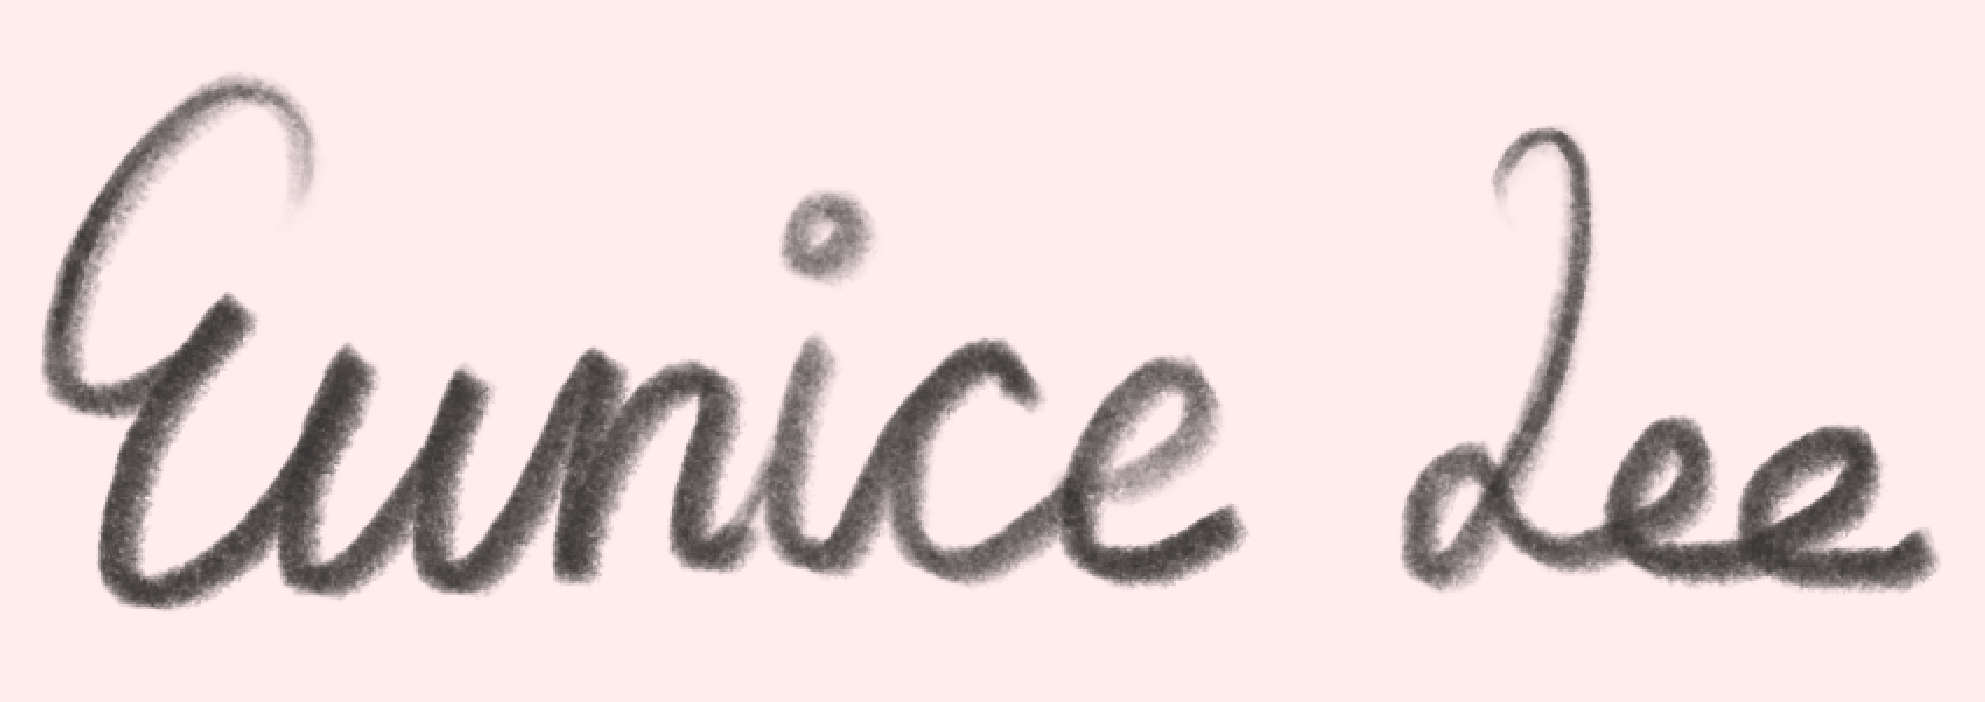
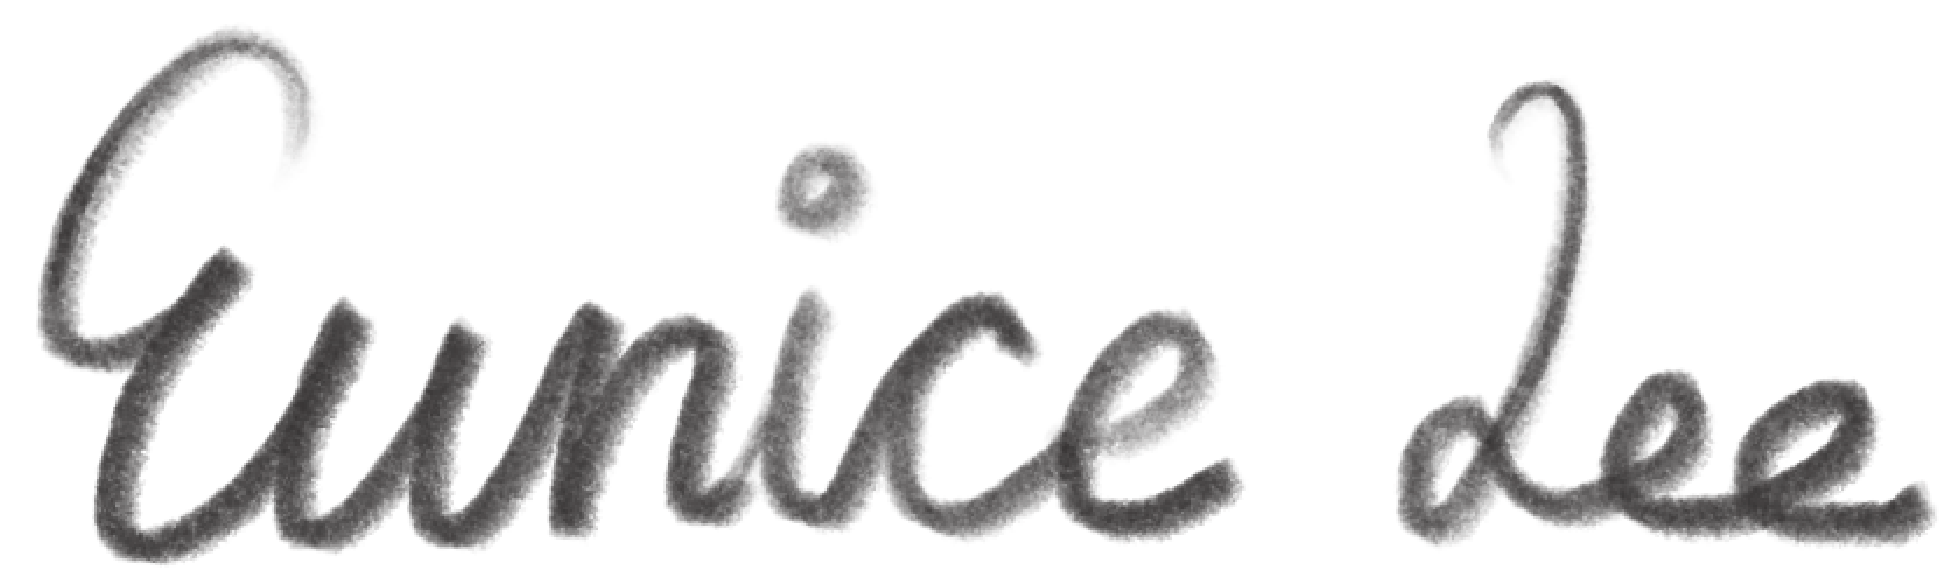
added front page images

diff --git a/src/App.css b/src/App.css
@@ -6,24 +6,29 @@
 .intro-art { max-width: 390px; }
 .intro-image { display: block; width: 100%; height: auto; }
 .intro-copy { max-width: 500px; }
-.intro-design { width: 100%; justify-self: center; }
-.intro-text { width: 100%; max-width: 480px; justify-self: start; text-align: left; }
+.intro-design { position: relative; isolation: isolate; width: 100%; justify-self: center; transform: translateY(-50px); }
+.intro-person { position: absolute; z-index: -1; width: 250px; height: auto; left: 850px; top: -70%; transform: translateY(-30%); }
+.intro-food { position: absolute; z-index: -1; width: 300px; height: auto; left: 22px; top: 78%; }
+.intro-text { width: 100%; max-width: 480px; justify-self: start; text-align: left; transform: translateY(40px); }
 .intro h1 { margin: 0 0 22px; font: 400 clamp(2.75rem, 5vw, 4.5rem)/1 var(--serif); letter-spacing: -.045em; }
 .intro-deck { max-width: 460px; margin: 0 0 28px; font: 1rem/1.55 var(--serif); }
 .intro-midsize {max-width: 460px; margin: 0 0 28px; font: 1.6rem/1.55 var(--serif);}
 .discipline-list { display: flex; flex-wrap: wrap; gap: 7px 18px; margin: 0 0 32px; padding: 18px 0 0; border-top: 1px solid rgba(40, 37, 37, .45); list-style: none; }
 .discipline-list li { font-size: .8rem; }
-.contact-links { width: 100%; display: flex; flex-wrap: wrap; align-items: center; justify-content: center; gap: 0; }
-.contact-item { min-height: 34px; display: inline-flex; flex: 0 0 auto; align-items: center; justify-content: center; color: var(--charcoal); text-decoration: none; transition: opacity .18s ease, transform .18s ease; }
+.contact-links { width: 100%; display: flex; flex-wrap: wrap; align-items: center; justify-content: center; gap: 0; transform: translateX(-30px);}
+.contact-item { min-height: 35px; display: inline-flex; flex: 0 0 auto; align-items: center; justify-content: center; color: var(--charcoal); text-decoration: none; transition: opacity .18s ease, transform .18s ease; }
 .contact-item + .contact-item::before { content: ''; width: 1px; height: 24px; display: inline-block; flex: 0 0 auto; margin: 0 16px; background: currentColor; opacity: .45; }
-.contact-item:hover, .contact-item:focus-visible { opacity: .62; transform: translateY(-1px); }
-.contact-links img { display: block; width: 32px; height: 32px; object-fit: contain; }
+.contact-item:hover, .contact-item:focus-visible { opacity: .62; transform: translateY(-2px); }
+.contact-links img { display: block; width: 45px; height: 45px; object-fit: contain; }
 .contact-icon-fallback { display: grid; place-items: center; width: 32px; height: 32px; font-size: .63rem; font-weight: 700; letter-spacing: .05em; }
 .intro-scroll-cue { position: absolute; bottom: 18px; left: 50%; padding: 8px; color: var(--charcoal); font-size: .9rem; line-height: 1; text-decoration: none; transform: translateX(-50%); transition: transform .2s ease; }
 .intro-scroll-cue:hover, .intro-scroll-cue:focus-visible { opacity: 1; transform: translate(-50%, 3px); }
 
 .selected-work { padding: clamp(72px, 8vw, 88px) 0 clamp(72px, 10vw, 110px); }
 .section-heading { margin: 0; font: 400 clamp(1.75rem, 3vw, 2.5rem)/1.1 var(--serif); letter-spacing: -.025em; }
+.section-title-image { display: block; width: auto; max-width: 100%; height: auto; }
+.section-title-image--featured { width: 380px; }
+.section-title-image--archive { width: 210px; }
 .featured-grid { display: grid; grid-template-columns: repeat(3, minmax(0, 1fr)); gap: clamp(22px, 3vw, 38px); margin-top: 28px; }
 .featured-project { min-width: 0; }
 .project-visual-link { display: block; color: inherit; text-decoration: none; }
@@ -32,14 +37,17 @@
 .project-visual--image img { display: block; width: 100%; height: auto; object-fit: contain; }
 .project-visual--placeholder { display: grid; place-items: center; border: 1px solid rgba(40, 37, 37, .3); color: rgba(40, 37, 37, .65); }
 .project-visual--placeholder span { font-size: .62rem; letter-spacing: .08em; text-transform: uppercase; }
-.featured-project h3 { margin: 15px 0 7px; font: 400 1.2rem/1.2 var(--serif); }
+.featured-project h3 { margin: 15px 0 7px; font: 500 1.4rem/1.2 var(--serif); }
 .featured-project h3 a { text-decoration: none; }
+.featured-subtitle { margin: 15px 0 7px; font: 400 1rem/1.2 var(--sans); }
 .project-description { margin: 0; font-size: .78rem; line-height: 1.5; }
 .tags { display: flex; flex-wrap: wrap; gap: 5px 10px; margin: 12px 0 0; padding: 0; list-style: none; }
-.tags li { color: rgba(40, 37, 37, .72); font-size: .59rem; letter-spacing: .05em; text-transform: uppercase; }
+.tags li { padding: .28rem .52rem; border: 1px solid var(--charcoal); border-radius: 2px; background: var(--cream); color: var(--charcoal); font-size: .72rem; line-height: 1; letter-spacing: .04em; text-transform: uppercase; }
 
 .archive { padding: 0 0 clamp(80px, 11vw, 125px); }
 .archive-heading { display: flex; align-items: center; justify-content: space-between; gap: 28px; margin-bottom: 24px; }
+.archive-heading-copy { display: flex; min-width: 0; flex-direction: column; align-items: flex-start; }
+.archive-subtitle { margin: 8px 0 0; font: 400 1.2rem/1.2 var(--serif); }
 .filter-bar { display: flex; flex-wrap: wrap; justify-content: flex-end; gap: 5px 14px; }
 .filter-bar button { padding: 2px 0; border: 0; border-bottom: 1px solid transparent; background: transparent; font-size: .63rem; letter-spacing: .06em; text-transform: uppercase; cursor: pointer; }
 .filter-bar button:hover, .filter-bar button.is-active { border-bottom-color: var(--charcoal); }
@@ -67,7 +75,10 @@ a:hover { opacity: .62; }
 @media (max-width: 760px) {
   .intro { padding: 52px 0; }
   .intro-inner { grid-template-columns: 1fr; gap: 36px; }
-  .intro-design, .intro-text { justify-self: center; }
+  .intro-design, .intro-text { justify-self: center; transform: none; }
+  .intro-design { padding-top: 120px; }
+  .intro-person { width: 135px; left: clamp(8px, 10vw, 64px); top: 0; transform: none; }
+  .intro-food { width: 76px; left: clamp(130px, 34vw, 210px); top: 62px; }
   .featured-grid { grid-template-columns: repeat(2, minmax(0, 1fr)); }
   .archive-heading { align-items: flex-start; flex-direction: column; }
   .filter-bar { justify-content: flex-start; }
@@ -76,6 +87,9 @@ a:hover { opacity: .62; }
 @media (max-width: 560px) {
   .intro { padding: 44px 0 58px; }
   .intro-inner { grid-template-columns: 1fr; }
+  .intro-design { padding-top: 100px; }
+  .intro-person { width: 112px; }
+  .intro-food { width: 64px; left: clamp(108px, 36vw, 165px); top: 52px; }
   .intro-art { max-width: 280px; }
   .contact-links { gap: 8px 18px; }
   .contact-item + .contact-item::before { display: none; }

diff --git a/src/components/IntroSection.jsx b/src/components/IntroSection.jsx
@@ -1,38 +1,34 @@
 import namePic from "../assets/name.png"
+import mailIcon from '../assets/mail.png'
+import linkedinIcon from '../assets/linkedin.png'
+import githubIcon from '../assets/github.png'
+import personPic from '../assets/person.png'
+import foodPic from '../assets/food.png'
 
 // const disciplines = ['Marketing', 'Journalism', 'Data + Interactives']
 
-// Add these files to src/assets, then import them and replace each null icon below:
-// import emailIcon from '../assets/email-icon.svg'
-// import linkedinIcon from '../assets/linkedin-icon.svg'
-// import resumeIcon from '../assets/resume-icon.svg'
-// import githubIcon from '../assets/github-icon.svg'
 const contactLinks = [
   {
     label: 'Email',
     href: 'mailto:eunicelee043@gmail.com',
-    icon: null,
-    fallback: 'EMAIL',
+    icon: mailIcon,
   },
   {
     label: 'LinkedIn',
     href: 'https://www.linkedin.com/in/eunice-eunsoo-lee/',
-    icon: null,
-    fallback: 'LINKEDIN',
+    icon: linkedinIcon,
     external: true,
   },
   // {
   //   label: 'Resume',
   //   href: 'YOUR_RESUME_URL_HERE',
-  //   icon: null,
-  //   fallback: 'CV',
+  //   icon: resumeIcon,
   //   external: true,
   // },
   {
     label: 'GitHub',
     href: 'https://github.com/eunice-eunsoo',
-    icon: null,
-    fallback: 'GITHUB',
+    icon: githubIcon,
     external: true,
   },
 ]
@@ -42,6 +38,8 @@ function IntroSection() {
     <section className="intro" id="top">
       <div className="content-container intro-inner">
         <div className="intro-copy intro-design">
+          <img src={personPic} alt="" className="intro-person" aria-hidden="true" />
+          <img src={foodPic} alt="" className="intro-food" aria-hidden="true" />
           {/* <h1>Eunice Lee</h1> */}
           <img src = {namePic} alt='Eunice lee' style={{ width: '400px', height: 'auto', marginRight:'50px' }}/>
           <p className="intro-midsize" style={{ marginLeft: '100px' }}>and what she's cooking...</p>
@@ -57,7 +55,7 @@ function IntroSection() {
             {disciplines.map((discipline) => <li key={discipline}>{discipline}</li>)}
           </ul> */}
           <div className="contact-links" aria-label="Contact links">
-            {contactLinks.map(({ label, href, icon, fallback, external }) => (
+            {contactLinks.map(({ label, href, icon, external }) => (
               <a
                 className="contact-item"
                 href={href}
@@ -65,9 +63,7 @@ function IntroSection() {
                 key={label}
                 {...(external ? { target: '_blank', rel: 'noreferrer' } : {})}
               >
-                {icon
-                  ? <img src={icon} alt="" aria-hidden="true" />
-                  : <span className="contact-icon-fallback" aria-hidden="true">{fallback}</span>}
+                <img src={icon} alt="" />
               </a>
             ))}
           </div>

diff --git a/src/components/ProjectArchive.jsx b/src/components/ProjectArchive.jsx
@@ -1,6 +1,7 @@
 import { useState } from 'react'
+import fullMenuTitle from '../assets/full_menu.png'
 
-const filters = ['all', 'tools', 'data', 'print', 'video', 'photo']
+const filters = ['all', 'data', 'graphics', 'writing', 'video', 'photo']
 
 function FilterBar({ activeFilter, onChange }) {
   return (
@@ -25,7 +26,11 @@ function ProjectArchiveRow({ project, index }) {
       <div className="archive-copy">
         <h3><a href={project.link}>{project.title}</a></h3>
         <p>{project.description}</p>
-        <ul className="tags" aria-label="Skills and tools">{project.tools.map((tool) => <li key={tool}>{tool}</li>)}</ul>
+        <ul className="tags" aria-label="Skills and tools">
+          {project.tools.map((tool, toolIndex) => (
+            project.tools.indexOf(tool) === toolIndex ? <li key={tool}>{tool}</li> : null
+          ))}
+        </ul>
       </div>
     </article>
   )
@@ -33,14 +38,24 @@ function ProjectArchiveRow({ project, index }) {
 
 function ProjectArchive({ projects }) {
   const [activeFilter, setActiveFilter] = useState('all')
-  const visibleProjects = activeFilter === 'all' ? projects : projects.filter((project) => project.categories.includes(activeFilter))
+  const visibleProjects = projects.filter((project) => (
+    activeFilter === 'all' || project.categories.includes(activeFilter)
+  ))
 
   return (
     <section className="archive" id="archive">
       <div className="content-container">
         <div className="archive-heading">
-          <h2 className="section-heading">Full Menu</h2>
-          <p className='featured-project h3'>Everything else.</p>
+          <div className="archive-heading-copy">
+            <h2 className="section-heading">
+              <img
+                className="section-title-image section-title-image--archive"
+                src={fullMenuTitle}
+                alt="Full Menu"
+              />
+            </h2>
+            <p className="featured-subtitle">Everything else!</p>
+          </div>
           <FilterBar activeFilter={activeFilter} onChange={setActiveFilter} />
         </div>
         <div className="archive-list" aria-live="polite">

diff --git a/src/data/projects.js b/src/data/projects.js
@@ -51,7 +51,7 @@ export const archiveProjects = [
     title:
       "Chicago police traffic stops plunge, again, but Black and Latino drivers still get pulled over far more",
     description: "One sentence of placeholder context for this piece of work.",
-    categories: ["tools", "data"],
+    categories: ["data", "writing"],
     tools: ["Tool", "Data"],
     image: stops,
     link: "https://chicago.suntimes.com/the-watchdogs/2026/08/14/traffic-stops-racial-disparities-chicago-police-department-illinois-department-transportation-driving-while-black",
@@ -61,10 +61,10 @@ export const archiveProjects = [
     title: "Archive Project Two",
     description:
       "A short placeholder description for a print or editorial project.",
-    categories: ["print"],
-    tools: ["Print", "Editing"],
+    categories: ["writing"],
+    tools: ["Print", "Data"],
     image: null,
-    link: "#",
+    link: "https://www.dallasnews.com/projects/2026/dallas-rain-tracker-texas/",
   },
   {
     id: "archive-03",
@@ -88,7 +88,7 @@ export const archiveProjects = [
     id: "archive-05",
     title: "Archive Project Five",
     description: "One sentence reserved for a data story or interactive piece.",
-    categories: ["data", "tools"],
+    categories: ["data", "graphics"],
     tools: ["Data", "Interactive"],
     image: null,
     link: "#",
@@ -97,7 +97,7 @@ export const archiveProjects = [
     id: "archive-06",
     title: "Archive Project Six",
     description: "A final placeholder for work that crosses multiple formats.",
-    categories: ["print", "photo"],
+    categories: ["writing", "photo"],
     tools: ["Print", "Photo"],
     image: null,
     link: "#",

diff --git a/src/App.jsx b/src/App.jsx
@@ -4,6 +4,7 @@ import IntroSection from './components/IntroSection'
 import FeaturedProject from './components/FeaturedProject'
 import ProjectArchive from './components/ProjectArchive'
 import { archiveProjects, featuredProjects } from './data/projects'
+import featuredTitle from './assets/featured.png'
 
 function App() {
   return (
@@ -12,8 +13,14 @@ function App() {
         <IntroSection />
         <section className="selected-work" id="featured" aria-labelledby="selected-work-title">
           <div className="content-container">
-            <h2 className="section-heading" id="selected-work-title">Chef's Specials</h2>
-            <p className = 'featured-project h3'> Three projects I'm especially proud of. </p>
+            <h2 className="section-heading" id="selected-work-title">
+              <img
+                className="section-title-image section-title-image--featured"
+                src={featuredTitle}
+                alt="Chef's Specials"
+              />
+            </h2>
+            <p className = 'featured-subtitle'> Three projects I'm especially proud of! </p>
             <div className="featured-grid">
               {featuredProjects.map((project) => (
                 <FeaturedProject key={project.id} project={project} />
